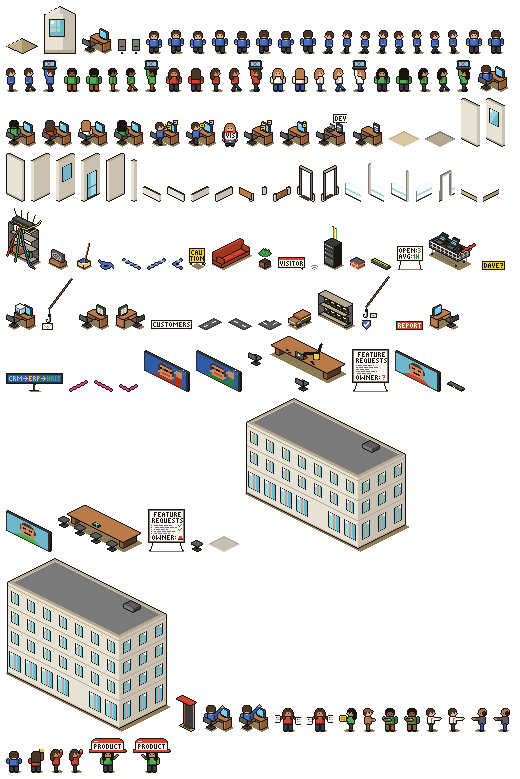
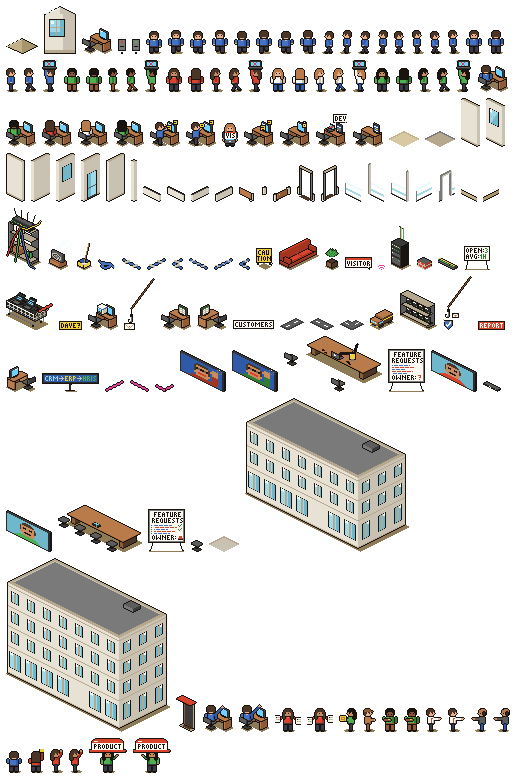
Keep fixture-pinned sprites intact; ship new looks as new keys
npm run check failed: tests/fixtures' hand-written band-80 golden draws
desk-postit and cable-floor-*, and fixes 2 and 7 had redrawn those
sprites in place. tests/ is outside the art pass's boundary, so the old
keys are restored byte-identical to develop, and the new looks ship
under new keys that the art now uses: desk-notes (post-its on the
bezel) and cable-tape-c/-r/-turn (the continuous taped cable). No view
changes by a pixel. The old keys stay in the manifest only for the
fixture and can go once it is re-pointed or its golden regenerated.

diff --git a/art/src/sprites/band80.py b/art/src/sprites/band80.py
@@ -11,9 +11,10 @@ Without (the as-found state)
         box-fan             on a cardboard box, aimed at the router
         mop-bucket          so nobody mistakes the closet for a server room
         cable-spill         the cable that falls out when the door opens
-  G1.2  desk-postit         (desk.py)
+  G1.2  desk-notes          (desk.py; `desk-postit` kept only for tests/fixtures)
   G2.1  desk-dev            (desk.py) + worker queue poses (worker.py)
-  G2.2  cable-floor-c/-r/-turn   taped floor cable, three pieces that tile
+  G2.2  cable-tape-c/-r/-turn    taped floor cable, three pieces that tile (PH1-10;
+                                 `cable-floor-*` kept only for tests/fixtures)
         sign-caution        a small A-frame, CAUTION in 3x5 glyphs
   G2.3  sofa, plant, tag-visitor, wifi (and `visitor` in worker.py)
 
@@ -191,12 +192,39 @@ def _cable_spill(iso: Iso, c: Canvas):
 
 # -- G2.2 without: taped floor cable --------------------------------------------------
 
+def _tape_run_v1(iso: Iso, pts, marks):
+    """The PH1-06 cable (`cable-floor-*`): kept pixel-identical only because
+    tests/fixtures' hand-written golden draws it; the art uses `cable-tape-*`."""
+    _thick(iso, pts, "shirt-1")
+    for (cc, rr, along) in marks:
+        if along == "c":
+            iso.box(cc - 0.5, rr - 1.2, 0, cc + 0.5, rr + 1.2, 0.5, top="wall-shadow",
+                    left="wall-trim", right="wall-trim", outline=None)
+        else:
+            iso.box(cc - 1.2, rr - 0.5, 0, cc + 1.2, rr + 0.5, 0.5, top="wall-shadow",
+                    left="wall-trim", right="wall-trim", outline=None)
+
+
+def _cable_c(iso, c):
+    _tape_run_v1(iso, [(0, 4), (8, 4)], [(2.0, 4.0, "c"), (6.0, 4.0, "c")])
+
+
+def _cable_r(iso, c):
+    _tape_run_v1(iso, [(4, 0), (4, 8)], [(4.0, 2.0, "r"), (4.0, 6.0, "r")])
+
+
+def _cable_turn(iso, c):
+    """Comes in along +r at c=4, leaves along +c at r=4."""
+    _tape_run_v1(iso, [(4, 0), (4, 4), (8, 4)], [(4.0, 2.0, "r"), (6.0, 4.0, "c")])
+
+
 TAPE_EVERY = 8.0 / 3        # world units between tape strips: ~6 px on screen
 
 
 def _tape_run(iso: Iso, pts, marks):
-    """PH1-10 fix round: one continuous blue cable (2 px, outlined) with short grey
-    strips of tape across it every ~6 px — a cable taped down, not a dashed border."""
+    """PH1-10 fix round (`cable-tape-*`): one continuous blue cable (2 px, outlined)
+    with short grey strips of tape across it every ~6 px — a cable taped down, not a
+    dashed border."""
     _thick(iso, pts, "shirt-1")
     for (cc, rr, along) in marks:
         if along == "c":
@@ -210,15 +238,15 @@ def _tape_run(iso: Iso, pts, marks):
 _MARKS = [TAPE_EVERY * (k + 0.5) for k in range(3)]      # 1.33, 4.0, 6.67
 
 
-def _cable_c(iso, c):
+def _tape_c(iso, c):
     _tape_run(iso, [(0, 4), (8, 4)], [(u, 4.0, "c") for u in _MARKS])
 
 
-def _cable_r(iso, c):
+def _tape_r(iso, c):
     _tape_run(iso, [(4, 0), (4, 8)], [(4.0, u, "r") for u in _MARKS])
 
 
-def _cable_turn(iso, c):
+def _tape_turn(iso, c):
     """Comes in along +r at c=4, leaves along +c at r=4."""
     _tape_run(iso, [(4, 0), (4, 4), (8, 4)], [(4.0, _MARKS[0], "r"), (_MARKS[2], 4.0, "c")])
 
@@ -437,6 +465,9 @@ def build_all() -> dict:
         "cable-floor-c": make(_cable_c),
         "cable-floor-r": make(_cable_r),
         "cable-floor-turn": make(_cable_turn),
+        "cable-tape-c": make(_tape_c),
+        "cable-tape-r": make(_tape_r),
+        "cable-tape-turn": make(_tape_turn),
         "sign-caution": make(_sign_caution),
         "sofa": make(_sofa),
         "plant": make(_plant),

diff --git a/art/src/layout.py b/art/src/layout.py
@@ -149,7 +149,7 @@ def _band80() -> list:
     seated = {"without": {B80_DESKS[0]: "a", B80_DESKS[3]: "d"},
               "built": dict(zip(B80_DESKS, "aced"))}
     for (col, row) in B80_DESKS:
-        P.append(_t("desk-postit", col, row, states=W, id=f"desk80-{col}-{row}",
+        P.append(_t("desk-notes", col, row, states=W, id=f"desk80-{col}-{row}",
                     gag="G1.2", part="pit"))
         P.append(_t("desk-padlock", col, row, states=B, gag="G1.2", part="pit"))
         for st in BOTH:
@@ -178,9 +178,9 @@ def _band80() -> list:
     # trolley's spot, then across the open floor to the first pit desk. Someone straddles
     # it where the walkway crosses, the CAUTION sign at the crossing. The cable tiles
     # are plain scenery (a hotspot that long would sit on G1.2's).
-    P += [_t("cable-floor-r", 2, row, depth=row + 3.0, states=W) for row in range(1, 5)]
-    P += [_t("cable-floor-turn", 2, 5, depth=7.5, states=W)]
-    P += [_t("cable-floor-c", col, 5, depth=col + 5.5, states=W) for col in range(3, 6)]
+    P += [_t("cable-tape-r", 2, row, depth=row + 3.0, states=W) for row in range(1, 5)]
+    P += [_t("cable-tape-turn", 2, 5, depth=7.5, states=W)]
+    P += [_t("cable-tape-c", col, 5, depth=col + 5.5, states=W) for col in range(3, 6)]
     P += [
         _t("sign-caution", 4, 5, dx=-6, dy=-5, depth=9.2, states=W, gag="G2.2", part="cable"),
         _f("worker-c", 5.4, 5.55, frame="step-right", depth=11.0, states=W, quiet="drop",

diff --git a/art/build.py b/art/build.py
@@ -211,7 +211,7 @@ def build_desks(manifest, registry):
     pts = {"net": desk.net_point(), "card": desk.card_point()}
     registry["desk"] = Sprite(desk.build(), desk.ANCHOR, pts)
     manifest["desk"]["points"] = {k: list(v) for k, v in pts.items()}
-    for kind in ("postit", "padlock", "dev", "dev-built"):
+    for kind in ("postit", "notes", "padlock", "dev", "dev-built"):
         cv = desk.build_variant(kind)
         name = f"desk-{kind}"
         pts = {"net": desk.net_point(kind)}
@@ -283,12 +283,12 @@ def build_sheet(static, badge_rendered, worker_rendered, registry):
     for look in worker.LOOK_NAMES:
         for fr in registry["worker-peel"].frames[look]:
             seat = Canvas(desk.W, desk.H)
-            seat.paste(registry["desk-postit"].canvas, 0, 0)
+            seat.paste(registry["desk-notes"].canvas, 0, 0)
             seat.paste(fr, 0, 0)
             items.append(seat)
         break  # one look is enough to judge the pose; all five ship
     items.append(registry["visitor"].canvas)
-    for name in ("desk-postit", "desk-padlock", "desk-dev", "desk-dev-built"):
+    for name in ("desk-notes", "desk-padlock", "desk-dev", "desk-dev-built"):
         items.append(registry[name].canvas)
     for group in (room.build_all(), band80.build_all(), band150.build_all(),
                   band220.build_all(), street.build_all()):

diff --git a/art/src/sprites/desk.py b/art/src/sprites/desk.py
@@ -59,7 +59,7 @@ def build(kind: str = "plain", turned: bool = False, screen=None) -> Canvas:
         _dev_card(c)
     if kind == "padlock":
         _padlock(c, iso)
-    if kind == "postit":
+    if kind == "notes":
         _postits(c)
     return c
 
@@ -105,7 +105,7 @@ def card_point(turned: bool = False) -> tuple[int, int]:
 
 
 def build_variant(kind: str) -> Canvas:
-    assert kind in ("postit", "padlock", "dev", "dev-built"), kind
+    assert kind in ("postit", "notes", "padlock", "dev", "dev-built"), kind
     return build(kind)
 
 
@@ -162,6 +162,12 @@ def _screen(iso: Iso, faces: dict, kind: str, m: dict, custom=None):
         b = band(z)
         if custom is not None:
             return custom(c, z, b, c0, c1)
+        if kind == "postit" and c >= c1 - 2.2 and b <= 4:
+            # (kept for tests/fixtures' golden; the art now uses `desk-notes`) a
+            # password, written down: two scribbled lines on a note on the glass
+            if b in (1, 3) and c1 - 1.9 <= c < c1 - 0.4:
+                return "outline"
+            return "sticky"
         if kind in ("dev", "dev-built"):
             for bb, ind, ln, col in (pr if kind == "dev" else code):
                 if b == bb and c0 + ind <= c < c0 + ind + ln:

diff --git a/art/src/sprites/poses.py b/art/src/sprites/poses.py
@@ -23,7 +23,7 @@ every look is a palette swap. Each pose is one manifest entry keyed by look (lik
                    envelope on the hook. Desk canvas + anchor.
   worker-peel      G1.2 (band 80): standing at a colleague's desk, peeling the password
                    sticky note off their monitor. Desk canvas + anchor: paste over
-                   `desk-postit` at the same point. Frame 1 erases the note from the
+                   `desk-notes` at the same point. Frame 1 erases the peeled note from the
                    screen (it is in the worker's hand now).
 """
 from __future__ import annotations
@@ -62,9 +62,9 @@ PEEL_OFFSET = (3, 12)
 
 
 def _screen_patch() -> dict:
-    """Pixels where `desk-postit` differs from the plain desk: the note. Frame 1 paints
+    """Pixels where `desk-notes` differs from the plain desk, inside NOTE_PEEL. Frame 1 paints
     the plain desk's colours back over them."""
-    plain, postit = desk_mod.build("plain"), desk_mod.build("postit")
+    plain, postit = desk_mod.build("plain"), desk_mod.build("notes")
     out = {}
     x0, y0, x1, y1 = desk_mod.NOTE_PEEL          # only the note being peeled
     for y in range(y0, y1 + 1):
